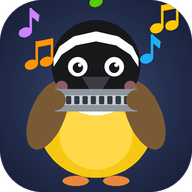
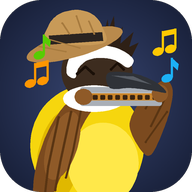
Add files via upload

diff --git a/index.html b/index.html
@@ -223,9 +223,9 @@ nav .ni{font-size:20px}
 /* mascote */
 .mas{display:block;position:relative}
 .mas svg{width:100%;height:auto;overflow:visible;display:block}
-.m-all{transform-origin:100px 210px;animation:mbob 3.2s ease-in-out infinite}
-.m-head{transform-box:fill-box;transform-origin:50% 90%}
-.m-wl,.m-wr{transform-box:fill-box;transform-origin:50% 12%}
+.m-all{transform-origin:125px 272px;animation:mbob 3.2s ease-in-out infinite}
+.m-head{transform-box:fill-box;transform-origin:55% 95%}.m-tail{transform-box:fill-box;transform-origin:85% 8%;animation:mtail 3.4s ease-in-out infinite}.mas[data-m=sing] .m-tail{animation-duration:.8s}@keyframes mtail{0%,100%{transform:rotate(0)}50%{transform:rotate(4deg)}}
+.m-wl,.m-wr{transform-box:fill-box}.m-wl{transform-origin:34% 14%}.m-wr{transform-origin:10% 50%}
 .m-eh,.m-tear,.m-z{opacity:0}
 .m-lid{transform-box:fill-box;transform-origin:50% 0;transform:scaleY(0);transition:transform .08s}
 .mas.blink .m-lid,.mas[data-m=sleep] .m-lid{transform:scaleY(1)}
@@ -235,7 +235,7 @@ nav .ni{font-size:20px}
 .mas[data-m=happy] .m-all,.mas[data-m=cheer] .m-all{animation:mhop .55s ease-in-out infinite}
 .mas[data-m=cheer] .m-all{animation-duration:.42s}
 .mas[data-m=happy] .m-eo,.mas[data-m=cheer] .m-eo{opacity:0}
-.mas[data-m=happy] .m-eh,.mas[data-m=cheer] .m-eh{opacity:1}
+.mas[data-m=happy] .m-eh,.mas[data-m=cheer] .m-eh{opacity:1}.mas[data-m=sing] .m-eo{opacity:0}.mas[data-m=sing] .m-eh{opacity:1}
 .mas[data-m=happy] .m-wl,.mas[data-m=cheer] .m-wl{animation:mflapL .35s ease-in-out infinite}
 .mas[data-m=happy] .m-wr,.mas[data-m=cheer] .m-wr{animation:mflapR .35s ease-in-out infinite}
 .mas[data-m=sing] .m-harm{animation:mharm .5s ease-in-out infinite alternate}
@@ -246,7 +246,7 @@ nav .ni{font-size:20px}
 .mas .nt{animation:none;opacity:0}
 .mas[data-m=sing] .nt,.mas[data-m=happy] .nt,.mas[data-m=cheer] .nt{animation:noteUp 2.4s ease-out infinite}
 .mhome{display:flex;gap:12px;align-items:center;padding:12px}
-.mhome .mas{width:116px;flex:none;cursor:pointer}
+.mhome .mas{width:100px;flex:none;cursor:pointer}
 .sbub{position:relative;flex:1;background:var(--bg);border:2px solid var(--bd);border-radius:18px;padding:12px 14px;font-weight:700;line-height:1.35}
 .sbub::before{content:'';position:absolute;left:-9px;top:50%;margin-top:-8px;border:8px solid transparent;border-right-color:var(--bd);border-left:0}
 .sbub.pop{animation:rise .35s}
@@ -266,7 +266,7 @@ nav .ni{font-size:20px}
 </style>
 </head>
 <body>
-<div id="splash"><div class="mas" id="mSplash" data-m="sing" style="width:min(64vw,300px)"></div><div class="st">Gaita Bem-te-vi</div><div class="ss">toque para começar</div></div>
+<div id="splash"><div class="mas" id="mSplash" data-m="sing" style="width:min(54vw,240px)"></div><div class="st">Gaita Bem-te-vi</div><div class="ss">toque para começar</div></div>
 <div id="toast"></div><div id="mChip"></div><div id="fb"><b id="fbT"></b><span id="fbS"></span></div>
 <div class="app">
  <div class="top"><div class="brand"><img src="icon-192.png" alt="" onerror="this.style.display='none'"><b>Bem-te-vi</b></div><span class="pill" id="pStreak"></span><span class="pill" id="pXp"></span><button class="mic" id="micTop" title="Microfone">🎤</button></div>
@@ -350,11 +350,11 @@ nav .ni{font-size:20px}
 <div id="diaryPlay"><div class="in"><div class="row" style="margin-bottom:12px"><button id="diaryClose">✕</button><h2 style="margin:0">Meu progresso</h2></div><div id="diaryBody"></div></div></div>
 <div id="routinePlay"><div class="in"><div class="row" style="margin-bottom:12px"><button id="routineClose">✕</button><h2 style="margin:0">Rotina de hoje</h2></div><div id="routineBody"></div></div></div>
 <div id="thPlay"><div class="in">
- <div class="row"><button id="thClose">✕</button><div class="bar"><i id="thProg"></i></div><div class="mas" id="mTh" data-m="idle" style="width:56px;flex:none"></div></div>
+ <div class="row"><button id="thClose">✕</button><div class="bar"><i id="thProg"></i></div><div class="mas" id="mTh" data-m="idle" style="width:42px;flex:none"></div></div>
  <div id="thBody"></div><div id="thBanner"></div><button class="go big" id="thBtn">Continuar</button>
 </div></div>
 <div id="mh"><div class="card"><h2 id="mt"></h2><p id="mb" style="text-align:left;font-size:14px"></p><button class="go big" id="mTab" style="margin-bottom:8px">↗ Abrir em nova aba</button><button class="big" id="mRetry" style="margin-bottom:8px">Tentar de novo</button><button class="big" id="mClose">Fechar</button></div></div>
-<div id="res"><div class="card"><div class="mas" id="mRes" data-m="idle" style="width:120px;margin:0 auto -4px"></div><h2 id="rt"></h2><div id="rs" style="font-size:34px"></div><p id="rd"></p>
+<div id="res"><div class="card"><div class="mas" id="mRes" data-m="idle" style="width:96px;margin:0 auto -4px"></div><h2 id="rt"></h2><div id="rs" style="font-size:34px"></div><p id="rd"></p>
  <button class="go big" id="rNext" style="margin-bottom:8px">Próxima</button><button class="big" id="rAgain" style="margin-bottom:8px">↻ Repetir</button><button class="big" id="rExit">Sair</button></div></div>
 
 <script>
@@ -1238,7 +1238,7 @@ function homeExtra(){const st=rtState(),cs=curStage(),na=nextAct();
  $('lvl').textContent='Nível '+(Math.floor(S.xp/100)+1)+' · Etapa '+cs.id+' de 8';if($('hkey'))$('hkey').textContent=S.key;
  $('cont').textContent=na?'▶ Continuar: '+na.t:'📋 Abrir a Etapa '+cs.id}
 /* ===== Mascote Bem-te-vi ===== */
-const MSVG=`<svg viewBox="22 28 156 196" xmlns="http://www.w3.org/2000/svg"><g class="m-all"><g class="m-feet"><ellipse cx="80" cy="207" rx="13" ry="5" fill="#e8873a"/><ellipse cx="120" cy="207" rx="13" ry="5" fill="#e8873a"/></g><g class="m-body"><ellipse cx="100" cy="152" rx="56" ry="52" fill="#f7c812"/><ellipse cx="100" cy="162" rx="36" ry="34" fill="#ffd84a"/></g><g class="m-wl"><ellipse cx="52" cy="142" rx="17" ry="36" transform="rotate(22 52 142)" fill="#7a5a35"/></g><g class="m-wr"><ellipse cx="148" cy="142" rx="17" ry="36" transform="rotate(-22 148 142)" fill="#7a5a35"/></g><g class="m-head"><circle cx="100" cy="92" r="44" fill="#17181a"/><polygon points="58,86 64,74 78,64 100,59 122,64 136,74 142,86 142,94 134,82 120,73 100,69 80,73 66,82 58,94" fill="#ffffff"/><ellipse cx="100" cy="129" rx="26" ry="13" fill="#ffffff"/><circle cx="66" cy="114" r="6" fill="#8d5d63"/><circle cx="134" cy="114" r="6" fill="#8d5d63"/><g class="m-eyes"><g class="m-eo"><circle cx="82" cy="94" r="9.5" fill="#ffffff"/><circle cx="118" cy="94" r="9.5" fill="#ffffff"/><g class="m-pupil"><circle cx="82" cy="95" r="5" fill="#17181a"/><circle cx="118" cy="95" r="5" fill="#17181a"/><circle cx="84" cy="92.5" r="1.8" fill="#ffffff"/><circle cx="120" cy="92.5" r="1.8" fill="#ffffff"/></g><ellipse class="m-lid" cx="82" cy="94" rx="10.5" ry="10.5" fill="#17181a"/><ellipse class="m-lid" cx="118" cy="94" rx="10.5" ry="10.5" fill="#17181a"/></g><g class="m-eh" fill="none" stroke="#fff" stroke-width="3.6" stroke-linecap="round"><path d="M73 97 Q82 86 91 97"/><path d="M109 97 Q118 86 127 97"/></g><ellipse class="m-tear" cx="72" cy="108" rx="2.6" ry="4" fill="#5ac8ff"/></g><polygon points="86,104 114,104 100,126" fill="#3a3d42"/><g class="m-harm"><rect x="58" y="116" width="84" height="22" rx="4" fill="#c9ced3"/><rect x="58" y="116" width="84" height="6" rx="3" fill="#8e969e"/><rect x="58" y="132" width="84" height="6" rx="3" fill="#8e969e"/><rect x="62" y="123" width="5" height="8" rx="1" fill="#2f3a42"/><rect x="70.2" y="123" width="5" height="8" rx="1" fill="#2f3a42"/><rect x="78.4" y="123" width="5" height="8" rx="1" fill="#2f3a42"/><rect x="86.6" y="123" width="5" height="8" rx="1" fill="#2f3a42"/><rect x="94.8" y="123" width="5" height="8" rx="1" fill="#2f3a42"/><rect x="103" y="123" width="5" height="8" rx="1" fill="#2f3a42"/><rect x="111.2" y="123" width="5" height="8" rx="1" fill="#2f3a42"/><rect x="119.4" y="123" width="5" height="8" rx="1" fill="#2f3a42"/><rect x="127.6" y="123" width="5" height="8" rx="1" fill="#2f3a42"/><rect x="135.8" y="123" width="5" height="8" rx="1" fill="#2f3a42"/><circle cx="60" cy="127" r="10" fill="#7a5a35"/><circle cx="140" cy="127" r="10" fill="#7a5a35"/></g></g><text class="m-z" x="152" y="70" font-size="16" font-weight="900" fill="#8fa3ad">z</text><text class="m-z" x="162" y="56" font-size="12" font-weight="900" fill="#8fa3ad" style="animation-delay:.8s">z</text></g><text class="nt" x="160" y="112" fill="#1cb0f6" style="--dx:46px;--rot:20deg;animation-delay:0s">♪</text><text class="nt" x="40" y="112" fill="#ff9600" style="--dx:-46px;--rot:-24deg;animation-delay:0.4s">♫</text><text class="nt" x="150" y="100" fill="#58cc02" style="--dx:18px;--rot:10deg;animation-delay:0.8s">♩</text><text class="nt" x="50" y="100" fill="#ff4b4b" style="--dx:-20px;--rot:-12deg;animation-delay:1.2s">♬</text><text class="nt" x="168" y="120" fill="#ffc800" style="--dx:70px;--rot:28deg;animation-delay:1.6s">♪</text><text class="nt" x="32" y="120" fill="#ce82ff" style="--dx:-70px;--rot:-28deg;animation-delay:2s">♫</text></svg>`;
+const MSVG=`<svg viewBox="18 8 214 284" xmlns="http://www.w3.org/2000/svg"><g class="m-all"><g class="m-perch"><rect x="48" y="262" width="154" height="24" rx="7" fill="#8a5a2e"/><polygon points="202,263 201.6,263.9 200.5,264.8 198.7,265.6 196.1,266.4 192.9,267.2 189,268 184.5,268.7 179.4,269.4 173.8,270 167.8,270.5 161.3,270.9 154.5,271.3 147.4,271.6 140,271.8 132.5,272 125,272 117.5,272 110,271.8 102.6,271.6 95.5,271.3 88.7,270.9 82.2,270.5 76.2,270 70.6,269.4 65.5,268.7 61,268 57.1,267.2 53.9,266.4 51.3,265.6 49.5,264.8 48.4,263.9 48,263 48.4,262.1 49.5,261.2 51.3,260.4 53.9,259.6 57.1,258.8 61,258 65.5,257.3 70.6,256.6 76.2,256 82.2,255.5 88.7,255.1 95.5,254.7 102.6,254.4 110,254.2 117.5,254 125,254 132.5,254 140,254.2 147.4,254.4 154.5,254.7 161.3,255.1 167.8,255.5 173.8,256 179.4,256.6 184.5,257.3 189,258 192.9,258.8 196.1,259.6 198.7,260.4 200.5,261.2 201.6,262.1" fill="#b07a40"/><rect x="80" y="268" width="3" height="16" rx="1.5" fill="#6e4522"/><rect x="126" y="268" width="3" height="16" rx="1.5" fill="#6e4522"/><rect x="168" y="268" width="3" height="14" rx="1.5" fill="#6e4522"/></g><g class="m-tail"><polygon points="82,196 79.2,198.1 76.6,201.4 74.3,205.7 72,210.6 69.7,216 67.4,221.5 64.8,227 62,232 58.6,237 54.5,242.5 50.1,248.2 45.6,253.9 41.5,259.3 38,264.3 35.4,268.6 34,272 33.9,274.6 34.8,276.8 36.4,278.4 38.8,279.5 41.6,280 44.9,280 48.4,279.3 52,278 56.1,275.8 61,272.8 66.4,269 72,264.6 77.6,260 83,255.2 87.9,250.5 92,246 95.6,241.5 99.1,236.8 102.4,231.8 105.2,226.9 107.6,222.1 109.2,217.5 110.1,213.5 110,210 108.6,206.9 106,203.8 102.5,200.9 98.4,198.5 93.9,196.6 89.5,195.5 85.4,195.2" fill="#b97a2a"/><polygon points="82,196 80.1,198.6 78,202.1 75.7,206.4 73.2,211.2 70.6,216.4 67.8,221.8 65,227 62,232 58.6,237.1 54.7,242.7 50.5,248.6 46.2,254.4 42.2,259.9 38.7,264.9 35.8,269 34,272 33.2,274 33,275.2 33.6,275.7 34.6,275.6 36.1,274.9 37.9,273.7 39.9,272.1 42,270 44.4,267.3 47.3,263.8 50.6,259.7 54.1,255.1 57.8,250.3 61.4,245.4 64.8,240.6 68,236 71.1,231.4 74.5,226.4 77.9,221.2 81.1,216.1 84.1,211.2 86.7,206.8 88.7,203 90,200 90.5,197.7 90.4,195.8 89.7,194.4 88.6,193.5 87.2,193.2 85.5,193.4 83.8,194.4" fill="#8f5a1f"/></g><g class="m-legs"><rect x="107" y="236" width="5" height="28" rx="2" fill="#34312e"/><rect x="146" y="236" width="5" height="28" rx="2" fill="#34312e"/><polygon points="120,264 119.9,264.4 119.8,264.7 119.5,265 119.1,265.4 118.6,265.7 118,266 117.3,266.3 116.5,266.5 115.6,266.8 114.7,267 113.7,267.2 112.6,267.3 111.5,267.4 110.3,267.5 109.2,267.6 108,267.6 106.8,267.6 105.7,267.5 104.5,267.4 103.4,267.3 102.3,267.2 101.3,267 100.4,266.8 99.5,266.5 98.7,266.3 98,266 97.4,265.7 96.9,265.4 96.5,265 96.2,264.7 96.1,264.4 96,264 96.1,263.6 96.2,263.3 96.5,263 96.9,262.6 97.4,262.3 98,262 98.7,261.7 99.5,261.5 100.4,261.2 101.3,261 102.3,260.8 103.4,260.7 104.5,260.6 105.7,260.5 106.8,260.4 108,260.4 109.2,260.4 110.3,260.5 111.5,260.6 112.6,260.7 113.7,260.8 114.7,261 115.6,261.2 116.5,261.5 117.3,261.7 118,262 118.6,262.3 119.1,262.6 119.5,263 119.8,263.3 119.9,263.6" fill="#34312e"/><polygon points="162,264 161.9,264.4 161.8,264.7 161.5,265 161.1,265.4 160.6,265.7 160,266 159.3,266.3 158.5,266.5 157.6,266.8 156.7,267 155.7,267.2 154.6,267.3 153.5,267.4 152.3,267.5 151.2,267.6 150,267.6 148.8,267.6 147.7,267.5 146.5,267.4 145.4,267.3 144.3,267.2 143.3,267 142.4,266.8 141.5,266.5 140.7,266.3 140,266 139.4,265.7 138.9,265.4 138.5,265 138.2,264.7 138.1,264.4 138,264 138.1,263.6 138.2,263.3 138.5,263 138.9,262.6 139.4,262.3 140,262 140.7,261.7 141.5,261.5 142.4,261.2 143.3,261 144.3,260.8 145.4,260.7 146.5,260.6 147.7,260.5 148.8,260.4 150,260.4 151.2,260.4 152.3,260.5 153.5,260.6 154.6,260.7 155.7,260.8 156.7,261 157.6,261.2 158.5,261.5 159.3,261.7 160,262 160.6,262.3 161.1,262.6 161.5,263 161.8,263.3 161.9,263.6" fill="#34312e"/><polygon points="118,262 128,264 120,266" fill="#34312e"/><polygon points="160,262 170,264 162,266" fill="#34312e"/><polygon points="98,263 90,266 99,267" fill="#34312e"/><polygon points="140,263 132,266 141,267" fill="#34312e"/></g><g class="m-body"><polygon points="188,172 187.7,178.7 186.8,185.3 185.2,191.7 183.1,198 180.4,204.1 177.2,209.8 173.5,215.1 169.3,220.1 164.6,224.6 159.6,228.5 154.2,232 148.5,234.8 142.6,237.1 136.5,238.7 130.3,239.7 124,240 117.7,239.7 111.5,238.7 105.4,237.1 99.5,234.8 93.8,232 88.4,228.5 83.4,224.6 78.7,220.1 74.5,215.1 70.8,209.8 67.6,204.1 64.9,198 62.8,191.7 61.2,185.3 60.3,178.7 60,172 60.3,165.3 61.2,158.7 62.8,152.3 64.9,146 67.6,139.9 70.8,134.2 74.5,128.9 78.7,123.9 83.4,119.4 88.4,115.5 93.8,112 99.5,109.2 105.4,106.9 111.5,105.3 117.7,104.3 124,104 130.3,104.3 136.5,105.3 142.6,106.9 148.5,109.2 154.2,112 159.6,115.5 164.6,119.4 169.3,123.9 173.5,128.9 177.2,134.2 180.4,139.9 183.1,146 185.2,152.3 186.8,158.7 187.7,165.3" fill="#f6d60e"/><polygon points="115.6,190.2 114.6,195.4 113.4,200.5 111.9,205.4 110.2,210.2 108.4,214.7 106.4,219 104.3,223 102.1,226.6 99.7,229.8 97.3,232.5 94.9,234.9 92.4,236.7 89.9,238.1 87.4,239 85,239.3 82.6,239.2 80.4,238.5 78.2,237.3 76.2,235.7 74.3,233.5 72.6,230.9 71.1,227.9 69.8,224.5 68.7,220.7 67.8,216.5 67.1,212.1 66.7,207.4 66.6,202.5 66.7,197.4 67,192.3 67.6,187.1 68.4,181.8 69.4,176.6 70.6,171.5 72.1,166.6 73.8,161.8 75.6,157.3 77.6,153 79.7,149 81.9,145.4 84.3,142.2 86.7,139.5 89.1,137.1 91.6,135.3 94.1,133.9 96.6,133 99,132.7 101.4,132.8 103.6,133.5 105.8,134.7 107.8,136.3 109.7,138.5 111.4,141.1 112.9,144.1 114.2,147.5 115.3,151.3 116.2,155.5 116.9,159.9 117.3,164.6 117.4,169.5 117.3,174.6 117,179.7 116.4,184.9" fill="#e0b800"/><polygon points="182,192 181.8,196.5 181.2,201 180.3,205.4 179,209.6 177.3,213.7 175.3,217.6 172.9,221.2 170.3,224.5 167.4,227.6 164.2,230.2 160.9,232.6 157.3,234.5 153.6,236 149.8,237.1 145.9,237.8 142,238 138.1,237.8 134.2,237.1 130.4,236 126.7,234.5 123.1,232.6 119.8,230.2 116.6,227.6 113.7,224.5 111.1,221.2 108.7,217.6 106.7,213.7 105,209.6 103.7,205.4 102.8,201 102.2,196.5 102,192 102.2,187.5 102.8,183 103.7,178.6 105,174.4 106.7,170.3 108.7,166.4 111.1,162.8 113.7,159.5 116.6,156.4 119.8,153.8 123.1,151.4 126.7,149.5 130.4,148 134.2,146.9 138.1,146.2 142,146 145.9,146.2 149.8,146.9 153.6,148 157.3,149.5 160.9,151.4 164.2,153.8 167.4,156.4 170.3,159.5 172.9,162.8 175.3,166.4 177.3,170.3 179,174.4 180.3,178.6 181.2,183 181.8,187.5" fill="#ffe84a"/></g><g class="m-wr"><polygon points="172,150 172,147 172.4,144.2 173.2,141.4 174.2,138.6 175.5,135.9 177,133.3 178.5,130.6 180,128 181.6,125.3 183.4,122.6 185.4,119.9 187.5,117.2 189.6,114.7 191.8,112.2 193.9,110 196,108 198.1,106.1 200.2,104.3 202.4,102.6 204.5,101.1 206.6,99.8 208.6,98.9 210.4,98.2 212,98 213.5,98.2 214.8,98.9 216,99.8 217.1,101.1 218.1,102.6 218.9,104.3 219.5,106.1 220,108 220.3,110 220.3,112.2 220.2,114.5 220,117 219.6,119.6 219.2,122.3 218.6,125.1 218,128 217.3,130.9 216.6,134 215.7,137.2 214.8,140.5 213.7,143.8 212.6,147.2 211.3,150.6 210,154 208.5,157.6 206.9,161.7 205.1,165.8 203.2,170 201.4,173.9 199.5,177.3 197.7,180.1 196,182 194.4,183 192.9,183.4 191.4,183.1 189.9,182.4 188.4,181.2 187,179.7 185.5,177.9 184,176 182.4,173.7 180.5,170.8 178.6,167.5 176.8,164 175,160.3 173.6,156.7 172.5,153.2" fill="#7b4a1f"/><polyline points="190,130 200,112" fill="none" stroke="#5a3513" stroke-width="2.4" stroke-linecap="round" stroke-linejoin="round"/><polyline points="196,150 212,118" fill="none" stroke="#5a3513" stroke-width="2.4" stroke-linecap="round" stroke-linejoin="round"/><polyline points="190,168 214,134" fill="none" stroke="#5a3513" stroke-width="2.4" stroke-linecap="round" stroke-linejoin="round"/></g><g class="m-wl"><polygon points="134,110 132.4,109.7 130.5,109.6 128.4,109.8 126,110.2 123.5,110.9 121,111.8 118.4,112.8 116,114 113.6,115.3 111.1,116.8 108.6,118.5 106,120.4 103.4,122.4 100.9,124.7 98.4,127.2 96,130 93.6,133 91.2,136.3 88.8,139.9 86.5,143.6 84.2,147.5 82,151.6 79.9,155.8 78,160 76.1,164.4 74.3,169 72.6,173.8 71,178.8 69.5,183.7 68.2,188.6 67,193.4 66,198 65.2,202.6 64.4,207.4 63.8,212.3 63.4,217 63.1,221.5 63.1,225.6 63.4,229.1 64,232 65,234.3 66.4,236.2 68.1,237.7 70,238.8 72,239.3 74.1,239.4 76.1,239 78,238 79.7,236.4 81.5,234.1 83.2,231.2 84.9,227.9 86.6,224.2 88.4,220.2 90.2,216.1 92,212 93.9,207.6 95.9,202.8 97.9,197.7 99.9,192.4 101.9,187 104,181.8 106,176.7 108,172 110,167.5 112,163.1 114.1,158.8 116.1,154.6 118.1,150.6 120.1,146.8 122.1,143.3 124,140 126,137 128.1,134.4 130.2,132 132.2,129.8 134.2,127.7 135.8,125.8 137.1,123.9 138,122 138.5,120.1 138.6,118.2 138.4,116.4 138,114.6 137.3,113.1 136.4,111.7 135.3,110.7" fill="#7b4a1f"/><polygon points="112.2,177.3 110.9,181 109.4,184.6 107.9,188.1 106.2,191.4 104.4,194.6 102.6,197.5 100.7,200.2 98.7,202.6 96.7,204.7 94.7,206.5 92.7,208 90.8,209.2 88.9,209.9 87,210.3 85.3,210.4 83.6,210 82.1,209.3 80.7,208.3 79.5,206.9 78.4,205.1 77.5,203.1 76.7,200.7 76.2,198.1 75.8,195.2 75.7,192.1 75.7,188.8 75.9,185.3 76.3,181.7 76.9,178 77.7,174.3 78.7,170.5 79.8,166.7 81.1,163 82.6,159.4 84.1,155.9 85.8,152.6 87.6,149.4 89.4,146.5 91.3,143.8 93.3,141.4 95.3,139.3 97.3,137.5 99.3,136 101.2,134.8 103.1,134.1 105,133.7 106.7,133.6 108.4,134 109.9,134.7 111.3,135.7 112.5,137.1 113.6,138.9 114.5,140.9 115.3,143.3 115.8,145.9 116.2,148.8 116.3,151.9 116.3,155.2 116.1,158.7 115.7,162.3 115.1,166 114.3,169.7 113.3,173.5" fill="#8f5a28"/><polyline points="92,140 80,196 76,230" fill="none" stroke="#5a3513" stroke-width="2.6" stroke-linecap="round" stroke-linejoin="round"/><polyline points="106,134 94,190 88,222" fill="none" stroke="#5a3513" stroke-width="2.6" stroke-linecap="round" stroke-linejoin="round"/><polyline points="118,126 108,178 100,208" fill="none" stroke="#5a3513" stroke-width="2.4" stroke-linecap="round" stroke-linejoin="round"/></g><g class="m-head"><polygon points="175,88 174.8,91.7 174.2,95.4 173.3,99 172,102.5 170.3,105.9 168.3,109.1 165.9,112.1 163.3,114.9 160.4,117.4 157.2,119.6 153.9,121.5 150.3,123.1 146.6,124.4 142.8,125.3 138.9,125.8 135,126 131.1,125.8 127.2,125.3 123.4,124.4 119.7,123.1 116.1,121.5 112.8,119.6 109.6,117.4 106.7,114.9 104.1,112.1 101.7,109.1 99.7,105.9 98,102.5 96.7,99 95.8,95.4 95.2,91.7 95,88 95.2,84.3 95.8,80.6 96.7,77 98,73.5 99.7,70.1 101.7,66.9 104.1,63.9 106.7,61.1 109.6,58.6 112.8,56.4 116.1,54.5 119.7,52.9 123.4,51.6 127.2,50.7 131.1,50.2 135,50 138.9,50.2 142.8,50.7 146.6,51.6 150.3,52.9 153.9,54.5 157.2,56.4 160.4,58.6 163.3,61.1 165.9,63.9 168.3,66.9 170.3,70.1 172,73.5 173.3,77 174.2,80.6 174.8,84.3" fill="#3d2c1f"/><polygon points="122,60 112,34 126,54" fill="#2e2016"/><polygon points="130,56 128,28 139,54" fill="#2e2016"/><polygon points="140,56 147,30 150,56" fill="#2e2016"/><polygon points="150,60 164,38 160,66" fill="#2e2016"/><polygon points="156,62 176,44 168,72" fill="#2e2016"/><polygon points="144,52 154,26 156,56" fill="#2e2016"/><polygon points="160,66 182,56 170,80" fill="#2e2016"/><polygon points="101,90 100.8,88.3 100.8,86.2 101,83.8 101.4,81.2 102,78.7 102.9,76.2 103.8,73.9 105,72 106.4,70.3 108,68.8 109.9,67.4 111.9,66.1 114.1,64.9 116.4,63.8 118.7,62.9 121,62 123.4,61.2 125.9,60.6 128.6,60 131.2,59.6 134,59.2 136.7,59 139.4,58.9 142,59 144.6,59.2 147.2,59.5 149.8,60 152.4,60.6 155,61.3 157.4,62.1 159.8,63 162,64 164.2,65.1 166.4,66.4 168.6,67.8 170.6,69.2 172.5,70.8 174,72.2 175.2,73.7 176,75 176.3,76.3 176.1,77.8 175.6,79.3 174.8,80.7 173.7,82 172.5,83 171.3,83.7 170,84 168.6,83.8 167.1,83.1 165.4,82 163.6,80.8 161.7,79.4 159.8,78 157.9,76.9 156,76 154.1,75.3 152.1,74.8 150.1,74.2 148.1,73.8 146.1,73.5 144,73.2 142,73.1 140,73 138,73 135.9,73.2 133.7,73.4 131.6,73.8 129.6,74.2 127.6,74.7 125.7,75.3 124,76 122.4,76.8 120.9,77.8 119.5,78.8 118.2,80 117,81.2 115.9,82.5 114.9,83.7 114,85 113.2,86.4 112.7,88 112.3,89.7 111.9,91.4 111.6,93 111.2,94.4 110.7,95.4 110,96 109,96.1 107.8,96 106.4,95.5 105,94.8 103.6,93.9 102.5,92.7 101.5,91.4" fill="#ffffff"/><polygon points="167,119 166.8,120.5 166.3,121.9 165.5,123.4 164.3,124.7 162.9,126.1 161.1,127.3 159.1,128.5 156.7,129.6 154.2,130.6 151.4,131.5 148.5,132.2 145.4,132.9 142.2,133.4 138.8,133.7 135.4,133.9 132,134 128.6,133.9 125.2,133.7 121.8,133.4 118.6,132.9 115.5,132.2 112.6,131.5 109.8,130.6 107.3,129.6 104.9,128.5 102.9,127.3 101.1,126.1 99.7,124.7 98.5,123.4 97.7,121.9 97.2,120.5 97,119 97.2,117.5 97.7,116.1 98.5,114.6 99.7,113.3 101.1,111.9 102.9,110.7 104.9,109.5 107.3,108.4 109.8,107.4 112.6,106.5 115.5,105.8 118.6,105.1 121.8,104.6 125.2,104.3 128.6,104.1 132,104 135.4,104.1 138.8,104.3 142.2,104.6 145.4,105.1 148.5,105.8 151.4,106.5 154.2,107.4 156.7,108.4 159.1,109.5 161.1,110.7 162.9,111.9 164.3,113.3 165.5,114.6 166.3,116.1 166.8,117.5" fill="#ffffff"/><g class="m-eyes"><g class="m-eo"><circle cx="122" cy="89" r="6.6" fill="#ffffff"/><circle cx="158" cy="84" r="5" fill="#ffffff"/><g class="m-pupil"><circle cx="123" cy="90" r="3.5" fill="#14100c"/><circle cx="159" cy="85" r="2.7" fill="#14100c"/><circle cx="124.4" cy="88.4" r="1.2" fill="#ffffff"/><circle cx="160" cy="84" r="0.9" fill="#ffffff"/></g><ellipse class="m-lid" cx="122" cy="89" rx="7.6" ry="7.6" fill="#3d2c1f"/><ellipse class="m-lid" cx="158" cy="84" rx="5.8" ry="5.8" fill="#3d2c1f"/></g><g class="m-eh"><polyline points="113,91 122,83 131,91" fill="none" stroke="#1b1008" stroke-width="3.2" stroke-linecap="round" stroke-linejoin="round"/><polyline points="151,86 158,79 165,86" fill="none" stroke="#1b1008" stroke-width="2.8" stroke-linecap="round" stroke-linejoin="round"/></g><ellipse class="m-tear" cx="120" cy="100" rx="2.6" ry="4" fill="#5ac8ff"/></g><g class="m-harm"><rect x="116" y="106" width="92" height="21" rx="3" fill="#cfd4da"/><rect x="116" y="106" width="92" height="6" rx="3" fill="#a9afb7"/><rect x="118" y="113" width="88" height="9" rx="1" fill="#c9852b"/><rect x="116" y="121" width="92" height="6" rx="3" fill="#a9afb7"/><rect x="122" y="115" width="5.2" height="5" rx="1" fill="#3a2410"/><rect x="130.4" y="115" width="5.2" height="5" rx="1" fill="#3a2410"/><rect x="138.8" y="115" width="5.2" height="5" rx="1" fill="#3a2410"/><rect x="147.2" y="115" width="5.2" height="5" rx="1" fill="#3a2410"/><rect x="155.6" y="115" width="5.2" height="5" rx="1" fill="#3a2410"/><rect x="164" y="115" width="5.2" height="5" rx="1" fill="#3a2410"/><rect x="172.4" y="115" width="5.2" height="5" rx="1" fill="#3a2410"/><rect x="180.8" y="115" width="5.2" height="5" rx="1" fill="#3a2410"/><rect x="189.2" y="115" width="5.2" height="5" rx="1" fill="#3a2410"/><rect x="197.6" y="115" width="5.2" height="5" rx="1" fill="#3a2410"/><polygon points="130,117 130,117.9 129.8,118.8 129.6,119.6 129.2,120.4 128.8,121.2 128.3,122 127.7,122.7 127.1,123.4 126.3,124 125.6,124.5 124.7,124.9 123.8,125.3 122.9,125.6 122,125.8 121,126 120,126 119,126 118,125.8 117.1,125.6 116.2,125.3 115.3,124.9 114.4,124.5 113.7,124 112.9,123.4 112.3,122.7 111.7,122 111.2,121.2 110.8,120.4 110.4,119.6 110.2,118.8 110,117.9 110,117 110,116.1 110.2,115.2 110.4,114.4 110.8,113.6 111.2,112.8 111.7,112 112.3,111.3 112.9,110.6 113.7,110 114.4,109.5 115.3,109.1 116.2,108.7 117.1,108.4 118,108.2 119,108 120,108 121,108 122,108.2 122.9,108.4 123.8,108.7 124.7,109.1 125.6,109.5 126.3,110 127.1,110.6 127.7,111.3 128.3,112 128.8,112.8 129.2,113.6 129.6,114.4 129.8,115.2 130,116.1" fill="#8f5a28"/><polygon points="215,113 215,114 214.8,115 214.6,115.9 214.3,116.8 213.9,117.7 213.5,118.6 213,119.3 212.4,120.1 211.7,120.7 211,121.3 210.2,121.8 209.4,122.2 208.6,122.6 207.8,122.8 206.9,123 206,123 205.1,123 204.2,122.8 203.4,122.6 202.6,122.2 201.8,121.8 201,121.3 200.3,120.7 199.6,120.1 199,119.3 198.5,118.6 198.1,117.7 197.7,116.8 197.4,115.9 197.2,115 197,114 197,113 197,112 197.2,111 197.4,110.1 197.7,109.2 198.1,108.3 198.5,107.4 199,106.7 199.6,105.9 200.3,105.3 201,104.7 201.8,104.2 202.6,103.8 203.4,103.4 204.2,103.2 205.1,103 206,103 206.9,103 207.8,103.2 208.6,103.4 209.4,103.8 210.2,104.2 211,104.7 211.7,105.3 212.4,105.9 213,106.7 213.5,107.4 213.9,108.3 214.3,109.2 214.6,110.1 214.8,111 215,112" fill="#8f5a28"/></g><polygon points="148,90 150.3,89.2 153.4,88.8 157.2,88.7 161.4,88.8 165.8,89.2 170.2,89.7 174.3,90.3 178,91 181.4,91.8 184.7,92.8 188,94 191.2,95.4 194.2,96.8 197.1,98.2 199.7,99.6 202,101 204.2,102.4 206.3,104 208.2,105.6 209.9,107.2 211.4,108.8 212.4,110.1 213,111.2 213,112 212.4,112.4 211.3,112.4 209.7,112.2 207.7,111.9 205.4,111.4 203,110.9 200.5,110.4 198,110 195.4,109.7 192.6,109.2 189.7,108.8 186.6,108.4 183.4,107.9 180.2,107.6 177.1,107.2 174,107 170.8,107 167.5,107.2 164,107.5 160.6,107.9 157.4,108.1 154.5,108.1 151.9,107.8 150,107 148.5,105.6 147.2,103.5 146.2,101.1 145.6,98.4 145.4,95.8 145.7,93.4 146.6,91.4" fill="#2f3238"/><polygon points="152,93 176,94 196,103 176,98" fill="#585d65"/><polygon points="163.8,42.6 163.9,44 163.5,45.5 162.6,47.1 161.2,48.9 159.3,50.7 156.9,52.6 154.1,54.6 150.8,56.6 147.1,58.6 143.1,60.6 138.8,62.6 134.2,64.5 129.3,66.4 124.3,68.2 119.1,69.9 113.9,71.5 108.6,72.9 103.3,74.2 98.1,75.4 93,76.3 88,77.1 83.3,77.8 78.8,78.2 74.7,78.4 70.8,78.5 67.4,78.3 64.3,78 61.7,77.4 59.6,76.7 58,75.8 56.8,74.7 56.2,73.4 56.1,72 56.5,70.5 57.4,68.9 58.8,67.1 60.7,65.3 63.1,63.4 65.9,61.4 69.2,59.4 72.9,57.4 76.9,55.4 81.2,53.4 85.8,51.5 90.7,49.6 95.7,47.8 100.9,46.1 106.1,44.5 111.4,43.1 116.7,41.8 121.9,40.6 127,39.7 132,38.9 136.7,38.2 141.2,37.8 145.3,37.6 149.2,37.5 152.6,37.7 155.7,38 158.3,38.6 160.4,39.3 162,40.2 163.2,41.3" fill="#b98a4c"/><polygon points="80,56 77,54.5 75.4,52.6 75,50.3 75.4,47.8 76.4,45.2 77.7,42.6 79,40.2 80,38 80.9,36 82,34 83.3,32.1 84.8,30.2 86.4,28.4 88.2,26.8 90,25.3 92,24 94.1,22.9 96.5,21.9 99,21 101.6,20.3 104.3,19.7 107,19.3 109.5,19.1 112,19 114.4,19.1 116.8,19.3 119.2,19.7 121.6,20.3 123.9,21 126,21.9 128.1,22.9 130,24 131.8,25.3 133.5,26.8 135.1,28.4 136.6,30.1 138,32 139.2,33.9 140.2,35.9 141,38 141.9,40.3 143.2,42.9 144.5,45.6 145.5,48.4 146,51.1 145.5,53.5 144,55.5 141,57 135.9,57.9 128.6,58.6 119.9,58.8 110.5,58.8 101.1,58.5 92.4,57.9 85.1,57.1" fill="#c89a58"/><polygon points="81,48 141,44 142,54 82,58" fill="#2b2420"/><polyline points="96,34 104,46" fill="none" stroke="#a67a3e" stroke-width="1.8" stroke-linecap="round" stroke-linejoin="round"/><polyline points="112,26 118,44" fill="none" stroke="#a67a3e" stroke-width="1.8" stroke-linecap="round" stroke-linejoin="round"/><polyline points="126,32 132,46" fill="none" stroke="#a67a3e" stroke-width="1.8" stroke-linecap="round" stroke-linejoin="round"/><polyline points="70,60 100,66" fill="none" stroke="#a67a3e" stroke-width="1.8" stroke-linecap="round" stroke-linejoin="round"/><polyline points="80,52 116,62" fill="none" stroke="#a67a3e" stroke-width="1.5" stroke-linecap="round" stroke-linejoin="round"/></g><text class="m-z" x="190" y="60" font-size="18" font-weight="900" fill="#8fa3ad">z</text><text class="m-z" x="204" y="42" font-size="13" font-weight="900" fill="#8fa3ad" style="animation-delay:.8s">z</text></g><text class="nt" x="214" y="98" fill="#1cb0f6" style="--dx:46px;--rot:20deg;animation-delay:0s">♪</text><text class="nt" x="52" y="116" fill="#ff9600" style="--dx:-46px;--rot:-24deg;animation-delay:0.4s">♫</text><text class="nt" x="204" y="80" fill="#58cc02" style="--dx:18px;--rot:10deg;animation-delay:0.8s">♩</text><text class="nt" x="60" y="96" fill="#ff4b4b" style="--dx:-20px;--rot:-12deg;animation-delay:1.2s">♬</text><text class="nt" x="226" y="118" fill="#ffc800" style="--dx:70px;--rot:28deg;animation-delay:1.6s">♪</text><text class="nt" x="40" y="134" fill="#ce82ff" style="--dx:-70px;--rot:-28deg;animation-delay:2s">♫</text></svg>`;
 const NP=['Dó','Dó#','Ré','Ré#','Mi','Fá','Fá#','Sol','Sol#','Lá','Lá#','Si'];
 function cellTxt(c){const i=+c.id.slice(1)-1;return NP[((c.classList.contains('b')?BLOW:DRAW)[i]+KEY())%12]}
 function setBig(n){$('nowCard').dataset.d=n.dir;$('big').innerHTML='<span class="bn">'+n.h+'</span><span class="bl">'+(n.dir=='b'?'↑ SOPRAR':'↓ ASPIRAR')+(n.bd?' · BEND '+n.bd:'')+'</span>'}

diff --git a/sw.js b/sw.js
@@ -1,6 +1,6 @@
 // Gaita Bem-te-vi - service worker. Busca sempre a versão mais nova na internet
 // e usa a cópia guardada só quando estiver sem conexão.
-const V='gaita-bem-te-vi-v3';
+const V='gaita-bem-te-vi-v4';
 const FILES=['./','./index.html','./manifest.webmanifest','./icon-192.png','./icon-512.png','./icon-maskable-512.png'];
 self.addEventListener('install',e=>{e.waitUntil(caches.open(V).then(c=>c.addAll(FILES)).then(()=>self.skipWaiting()))});
 self.addEventListener('activate',e=>{e.waitUntil(caches.keys().then(ks=>Promise.all(ks.filter(k=>k!==V).map(k=>caches.delete(k)))).then(()=>self.clients.claim()))});
